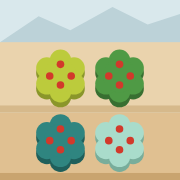
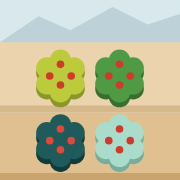
Restore deep teal Liberica; keep paler Robusta

Changed region(s): [[0.1944, 0.6389, 0.4722, 0.9722]]

diff --git a/js/art.js b/js/art.js
@@ -1,10 +1,10 @@
 // Flat art: terraced hillside and coin-like plant tokens. No gradients, no blur — solid faces only.
 export const PAL = {
-  // Four greens told apart by hue AND lightness: chartreuse (light, yellow), grass (mid), pale mint (light, blue), teal (mid, blue).
+  // Four greens told apart by hue AND lightness: chartreuse (light, yellow), grass (mid), pale mint (light, blue), deep teal (dark, blue).
   Y: { top: '#bccb3c', side: '#8a962a', berry: '#d2392b' },
   G: { top: '#4f9a45', side: '#386f31', berry: '#d2392b' },
   R: { top: '#a9dccb', side: '#78ad9b', berry: '#d2392b' },
-  B: { top: '#2f8580', side: '#1f5f5b', berry: '#d2392b' },
+  B: { top: '#1f5b5a', side: '#123b3a', berry: '#e2483a' },
   M: { top: '#fbf8f2', side: '#cfc6b6', berry: '#3a3530' },
 };
 // Six-lobed shrub silhouette, flat: one solid top face over a solid side face.

diff --git a/sw.js b/sw.js
@@ -1,5 +1,5 @@
 // Network-first so updates show up right away; cache is the offline fallback.
-const CACHE = 'coffea-v5';
+const CACHE = 'coffea-v6';
 self.addEventListener('install', () => self.skipWaiting());
 self.addEventListener('activate', e => e.waitUntil(
   caches.keys().then(ks => Promise.all(ks.filter(k => k !== CACHE).map(k => caches.delete(k)))).then(() => self.clients.claim())

diff --git a/CLAUDE.md b/CLAUDE.md
@@ -1,6 +1,6 @@
 # Coffea Arabica — notes for Claude
 
-- Owner: Noah. His board game (first draft "Arabica Rulebook v1.0", ~/Downloads/ArabicaRules_v100.pages) as a phone PWA. Look: flat and modern (Monument Valley / NYT Games), no gradients, blur or glossy shading. Paper background, ink UI, DM Serif Display headings. Board = flat clay terraces with risers under a pale sky and flat mountains, rows numbered 1 (bottom) to 4 (top). Pieces = Noah's six-lobed coffee shrubs with 4 cherries, drawn flat (solid top + solid side face, no shading); he asked to keep that shape. Species colours are all greens (his call), cherries always red: Arabica chartreuse, Racemosa grass, Robusta pale mint, Liberica mid teal (Noah wanted the blue-green lighter than the first deep teal) — keep them apart by lightness as well as hue. Noah's 3D board render (bubbly bushes, Lobster script) was only a starting idea and was rejected as too bubbly.
+- Owner: Noah. His board game (first draft "Arabica Rulebook v1.0", ~/Downloads/ArabicaRules_v100.pages) as a phone PWA. Look: flat and modern (Monument Valley / NYT Games), no gradients, blur or glossy shading. Paper background, ink UI, DM Serif Display headings. Board = flat clay terraces with risers under a pale sky and flat mountains, rows numbered 1 (bottom) to 4 (top). Pieces = Noah's six-lobed coffee shrubs with 4 cherries, drawn flat (solid top + solid side face, no shading); he asked to keep that shape. Species colours are all greens (his call), cherries always red: Arabica chartreuse, Racemosa grass, Robusta pale mint (Noah asked for it paler), Liberica deep teal — keep them apart by lightness as well as hue. Noah's 3D board render (bubbly bushes, Lobster script) was only a starting idea and was rejected as too bubbly.
 - No build step, no frameworks, no npm deps. ES modules served statically, same setup as ~/Claude/EveryDay and ~/Claude/FretFlow.
 - All rules live in `js/model.js` (row 0 in code = top = "row 4" on screen). Run `node --test tests/model.test.mjs` after changing them. Computer opponent in `js/ai.js` (easy random / normal = don't hand over a win / hard = one full turn of expectimax).
 - Rulings the rulebook left open (shown in the app's rules sheet): disease is orthogonal and checked before the win; transplants obey altitude; a piece with no legal spot goes back and the turn ends; 8 straight passes = draw.
